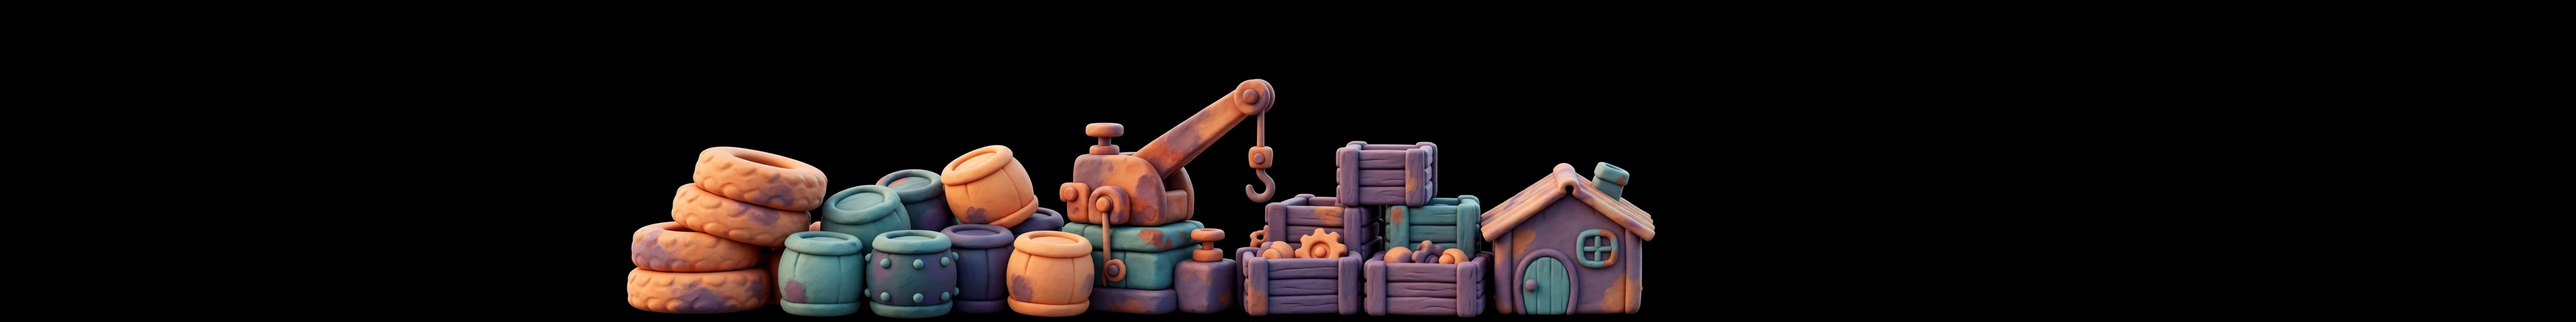
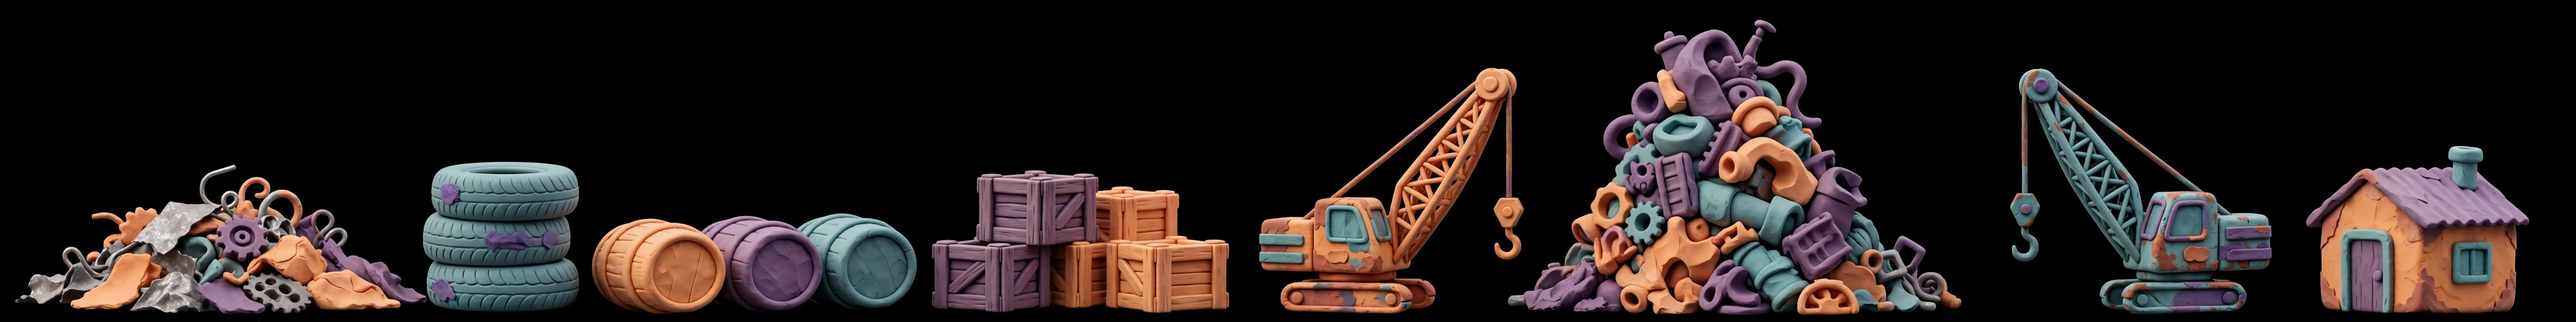
art(game): the Junkyard's mid strip runs the whole width and no longer repeats
The first Junkyard strip came back as ONE compact cluster 1,800 px wide (the prompt said "centered"), so the game mirrored it over and over along the horizon: the same tyre-and-shed block about every 330 px. The prompt now asks for the whole width. One Muse Image call (24 s; an earlier try answered HTTP 500 and made nothing) gave eight different things spread edge to edge: a scrap heap, a tyre stack, barrels, crates, an orange and a teal crane, a big junk pile and a shed. Raw 4,480 x 560 (the art of record, with the verbatim prompt and the call's numbers in the manifest), baked 4,371 x 513 by scripts/make-backdrops.py worlds (every other world's baked file came out byte-identical).

Looked at in the real game at four places in day and night: it reads as a scrapyard skyline with no repetition, sparser than the old dense row (gaps between the objects, the far silhouettes show through). The old art is in git history if it is wanted back. The strip is 4,371 px wide, the same class as the Sky strip (4,480).

Spec: parallax-backdrops-spec.md notes the redo. Tests: the two backdrop test files (77 pass); nothing else reads this asset. Not run: the e2e suites and the full test run (paused until beta).

diff --git a/docs/specs/parallax-backdrops-spec.md b/docs/specs/parallax-backdrops-spec.md
@@ -578,5 +578,4 @@ A world is built in the look of the moment; the clock passing 19:00 under a chil
 **Checked:** 36 + 41 + 5 unit tests (the skins, the backdrop table, the art on disk with its dimensions and alpha, the lanterns; 22 mutants, all killed bar one that behaves identically), `scripts/e2e-daynight.mjs`
 in real Chrome (every outdoor world in both looks, the light rig's fog, the lanterns, the art loaded and shown, day and night bands different, the Toy Room unchanged, pinning the other look while up,
 Auto), screenshots reviewed (the first pass found the Sky floor and the Beach sea still bright at night and the Junkyard ground still dark by day: fixed). The older e2es now pin Night (the look they were
-written for) so the clock cannot change what they see. **Not done:** the Junkyard's mid is a compact cluster rather than a strip (it sits in the middle of the lane; a mirror-extended or wider piece is
-the next art), a near strip, a gradual dusk (the spec's continuous look is post-hackathon), and phone performance of ten more textures (one far and one mid are alive at a time, cached for the session).
+written for) so the clock cannot change what they see. **Junkyard mid, redone 2026-11-04:** the first strip came back as ONE compact cluster 1,800 px wide (the prompt said "centered"), so the game mirrored it over and over along the horizon (the same tyre-and-shed block about every 330 px). The prompt now asks for the whole width, and the one Muse call that made it (the first try answered HTTP 500, no image, nothing made) gave eight different things spread edge to edge: a scrap heap, a tyre stack, barrels, crates, an orange and a teal crane, a big junk pile and a shed (4,480 x 560 raw, 4,371 x 513 baked, 35 % opaque). It reads as a skyline with no repetition, but it is sparser than the old row (gaps between the objects). The raw art and its prompt are in `docs/mockups/generated-backdrops/worlds/` (the old file is in git history: `git checkout <commit before> -- <file>` brings it back). **Not done:** a near strip, a gradual dusk (the spec's continuous look is post-hackathon), and phone performance of ten more textures (one far and one mid are alive at a time, cached for the session).
